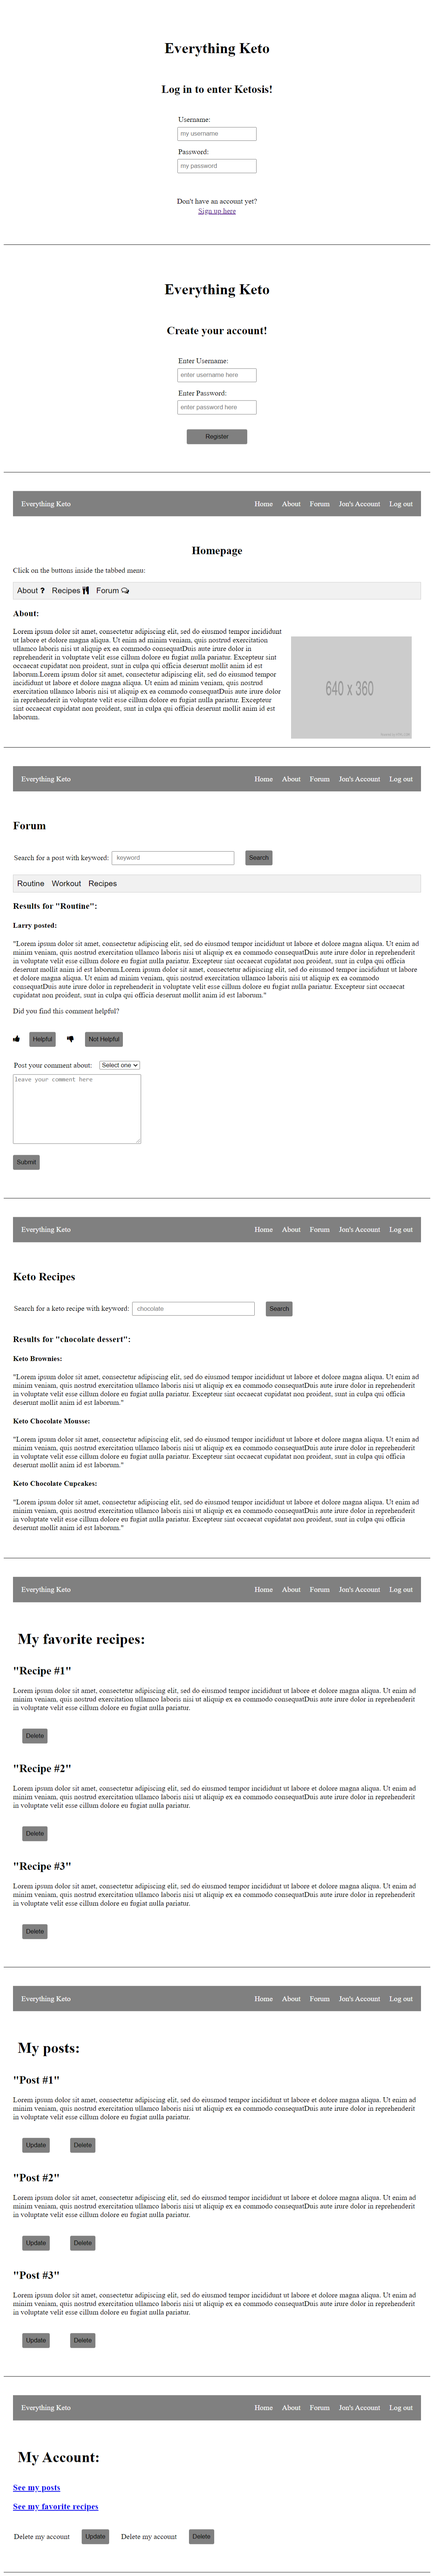
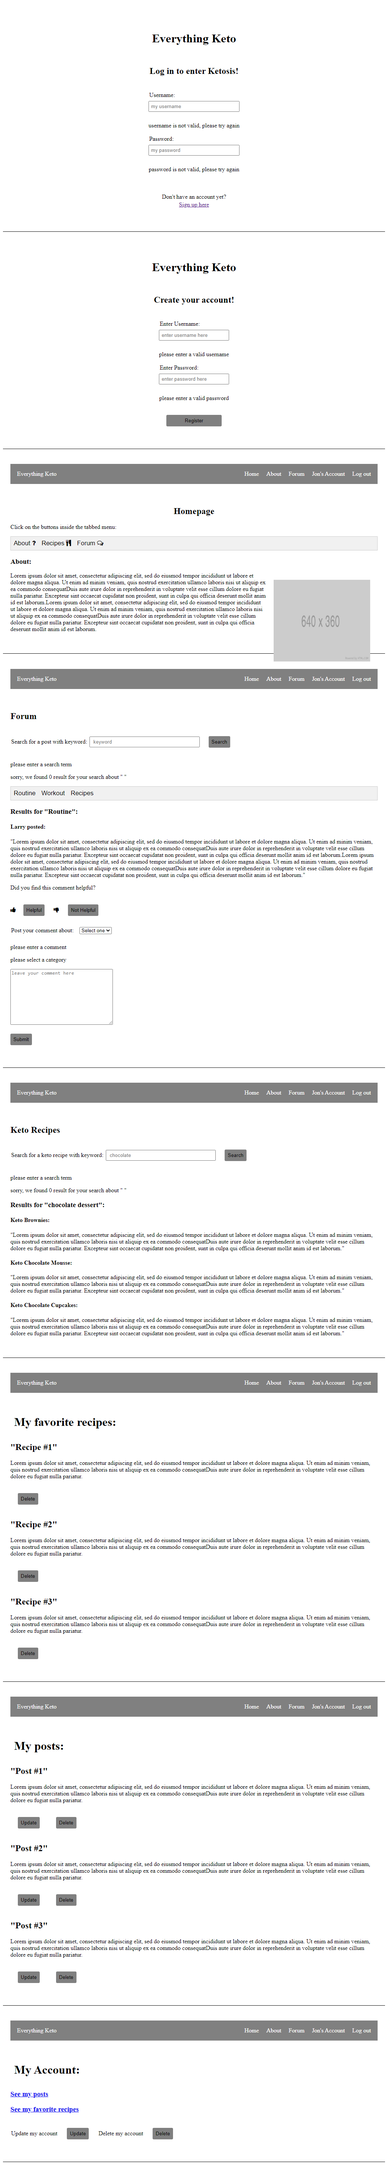
added error messsages to components added content of components updated fireshot graybox-wireframe  in README file

Changed region(s): [[0.0306, 0.0, 0.9799, 0.9991], [0.3981, 0.9679, 0.49, 0.9991]]

diff --git a/src/Forum.js b/src/Forum.js
@@ -1,10 +1,50 @@
-import React, {Component} from  'react'
+import React, { Component } from 'react'
 
 
 class Forum extends Component {
     render() {
         return (
-            <div></div>
+            <section className="forum">
+                <h2 className="forum">Forum</h2>
+                <label for="search-term">Search for a post with keyword:</label>
+                <input type="input" name="search" id="search-term" value="" placeholder=" keyword" />
+                <button type="submit" id="submit-keyword">Search</button>
+                <p className="error-message">error: please enter a search term</p>
+                <p className="error-message">error: sorry, we found 0 result for your search about " "</p>
+
+                <div className="tab">
+                    <button className="tablinks" onclick="openCity(event, 'London')">Routine </button>
+                    <button className="tablinks" onclick="openCity(event, 'Paris')">Workout </button>
+                    <button className="tablinks" onclick="openCity(event, 'Tokyo')">Recipes </button>
+                </div>
+
+                <h3>Results for "Routine":</h3>
+                <h4>Larry posted:</h4>
+                <p className="lorem">"Lorem ipsum dolor sit amet, consectetur adipiscing elit, sed do eiusmod tempor incididunt ut labore et dolore magna aliqua. Ut enim ad minim veniam, quis nostrud exercitation ullamco laboris nisi ut aliquip ex ea commodo consequatDuis aute irure dolor in reprehenderit in voluptate velit esse cillum dolore eu fugiat nulla pariatur. Excepteur sint occaecat cupidatat non proident, sunt in culpa qui officia deserunt mollit anim id est laborum.Lorem ipsum dolor sit amet, consectetur adipiscing elit, sed do eiusmod tempor incididunt ut labore et dolore magna aliqua. Ut enim ad minim veniam, quis nostrud exercitation ullamco laboris nisi ut aliquip ex ea commodo consequatDuis aute irure dolor in reprehenderit in voluptate velit esse cillum dolore eu fugiat nulla pariatur. Excepteur sint occaecat cupidatat non proident, sunt in culpa qui officia deserunt mollit anim id est laborum."</p>
+                <p> Did you find this comment helpful? </p>
+                <i className="fa fa-thumbs-up" aria-hidden="true"></i><button type="submit" id="update-button">Helpful</button>
+                <i className="fa fa-thumbs-down" aria-hidden="true"></i> <button type="submit" id="update-button">Not Helpful</button>
+
+                <div>
+                    <label for="post-comment">Post your comment about:</label>
+                    <select name="cars" id="cars">
+                        <option value="">Select one</option>
+                        <option value="">Routine</option>
+                        <option value="">Workout</option>
+                        <option value="">Recipes</option>
+                    </select>
+                </div>
+                <p className="error-message">error: please enter a comment</p>
+                <p className="error-message">error: please select a category</p>
+
+
+                <div className="comment-area">
+                    <textarea id="post-comment" value="" placeholder="leave your comment here"></textarea>
+                    <br />
+                    <button type="submit" id="comment-submit-button">Submit</button>
+                </div>
+            </section>
+
         )
     }
 

diff --git a/src/MyPosts.js b/src/MyPosts.js
@@ -4,7 +4,39 @@ import React, {Component} from  'react'
 class MyPosts extends Component {
     render() {
         return (
-            <div></div>
+            <section className="favorites">
+            <nav>
+              <ul>
+            <li className="logo"><a href="#home">Everything Keto</a></li>
+            <li><a href="#home">Home</a></li>
+            <li><a href="#about">About</a></li>
+            <li><a href="#forum">Forum</a></li>
+            <li><a href="#account">Jon's Account</a></li>
+            <li className="log-out"><a href="#log out">Log out</a></li>
+          </ul>
+            </nav>
+          
+          <h1 className="">My posts:</h1>
+          
+          
+              <h2>"Post #1"</h2>
+              <p>Lorem ipsum dolor sit amet, consectetur adipiscing elit, sed do eiusmod tempor incididunt ut labore et dolore magna aliqua. Ut enim ad minim veniam, quis nostrud exercitation ullamco laboris nisi ut aliquip ex ea commodo consequatDuis aute irure dolor in reprehenderit in voluptate velit esse cillum dolore eu fugiat nulla pariatur.</p>
+              <button type="submit" id="update-button">Update</button>
+              <button type="submit" id="delete-button">Delete</button>
+          
+            
+              <h2>"Post #2"</h2>
+              <p>Lorem ipsum dolor sit amet, consectetur adipiscing elit, sed do eiusmod tempor incididunt ut labore et dolore magna aliqua. Ut enim ad minim veniam, quis nostrud exercitation ullamco laboris nisi ut aliquip ex ea commodo consequatDuis aute irure dolor in reprehenderit in voluptate velit esse cillum dolore eu fugiat nulla pariatur.</p>
+              <button type="submit" id="update-button">Update</button>
+              <button type="submit" id="delete-button">Delete</button>
+          
+          
+              <h2>"Post #3"</h2>
+              <p>Lorem ipsum dolor sit amet, consectetur adipiscing elit, sed do eiusmod tempor incididunt ut labore et dolore magna aliqua. Ut enim ad minim veniam, quis nostrud exercitation ullamco laboris nisi ut aliquip ex ea commodo consequatDuis aute irure dolor in reprehenderit in voluptate velit esse cillum dolore eu fugiat nulla pariatur.</p>
+              <button type="submit" id="update-button">Update</button>
+              <button type="submit" id="delete-button">Delete</button>
+          </section>
+          
         )
     }
 

diff --git a/src/Recipes.js b/src/Recipes.js
@@ -3,8 +3,25 @@ import React from 'react';
 
 function Recipes() {
   return (
-    <main className="Recipes">
-    </main>
+    <section className="recipes">  
+  <h2 className="forum">Keto Recipes</h2>
+        <label for="search-term">Search for a keto recipe with keyword:</label>
+        <input type="input" name="search" id="search-term" value="" placeholder=" chocolate" />
+        <button type="submit" id="submit-keyword">Search</button>
+        <p className="error-message">error: please enter a search term</p>
+        <p className="error-message">error: sorry, we found 0 result for your search about " "</p>
+
+  <h3>Results for "chocolate dessert":</h3>
+  <h4>Keto Brownies:</h4>  
+    <p className="lorem">"Lorem ipsum dolor sit amet, consectetur adipiscing elit, sed do eiusmod tempor incididunt ut labore et dolore magna aliqua. Ut enim ad minim veniam, quis nostrud exercitation ullamco laboris nisi ut aliquip ex ea commodo consequatDuis aute irure dolor in reprehenderit in voluptate velit esse cillum dolore eu fugiat nulla pariatur. Excepteur sint occaecat cupidatat non proident, sunt in culpa qui officia deserunt mollit anim id est laborum."</p>
+  
+  <h4>Keto Chocolate Mousse:</h4>  
+    <p className="lorem">"Lorem ipsum dolor sit amet, consectetur adipiscing elit, sed do eiusmod tempor incididunt ut labore et dolore magna aliqua. Ut enim ad minim veniam, quis nostrud exercitation ullamco laboris nisi ut aliquip ex ea commodo consequatDuis aute irure dolor in reprehenderit in voluptate velit esse cillum dolore eu fugiat nulla pariatur. Excepteur sint occaecat cupidatat non proident, sunt in culpa qui officia deserunt mollit anim id est laborum."</p>
+  
+  <h4>Keto Chocolate Cupcakes:</h4>  
+    <p className="lorem">"Lorem ipsum dolor sit amet, consectetur adipiscing elit, sed do eiusmod tempor incididunt ut labore et dolore magna aliqua. Ut enim ad minim veniam, quis nostrud exercitation ullamco laboris nisi ut aliquip ex ea commodo consequatDuis aute irure dolor in reprehenderit in voluptate velit esse cillum dolore eu fugiat nulla pariatur. Excepteur sint occaecat cupidatat non proident, sunt in culpa qui officia deserunt mollit anim id est laborum."</p>
+  </section>
+  
   );
 }
 

diff --git a/src/MyRecipes.js b/src/MyRecipes.js
@@ -4,7 +4,24 @@ import React, {Component} from  'react'
 class MyRecipes extends Component {
     render() {
         return (
-            <div></div>
+            <section className="favorites">
+
+<h1 className="">My favorite recipes:</h1>
+<h2>"Recipe #1"</h2>
+    <p>Lorem ipsum dolor sit amet, consectetur adipiscing elit, sed do eiusmod tempor incididunt ut labore et dolore magna aliqua. Ut enim ad minim veniam, quis nostrud exercitation ullamco laboris nisi ut aliquip ex ea commodo consequatDuis aute irure dolor in reprehenderit in voluptate velit esse cillum dolore eu fugiat nulla pariatur.</p>
+      <button type="submit" id="delete-button">Delete</button>
+
+  
+    <h2>"Recipe #2"</h2>
+    <p>Lorem ipsum dolor sit amet, consectetur adipiscing elit, sed do eiusmod tempor incididunt ut labore et dolore magna aliqua. Ut enim ad minim veniam, quis nostrud exercitation ullamco laboris nisi ut aliquip ex ea commodo consequatDuis aute irure dolor in reprehenderit in voluptate velit esse cillum dolore eu fugiat nulla pariatur.</p>
+      <button type="submit" id="delete-button">Delete</button>
+
+
+    <h2>"Recipe #3"</h2>
+    <p>Lorem ipsum dolor sit amet, consectetur adipiscing elit, sed do eiusmod tempor incididunt ut labore et dolore magna aliqua. Ut enim ad minim veniam, quis nostrud exercitation ullamco laboris nisi ut aliquip ex ea commodo consequatDuis aute irure dolor in reprehenderit in voluptate velit esse cillum dolore eu fugiat nulla pariatur.</p>
+      <button type="submit" id="delete-button">Delete</button>
+</section>
+
         )
     }
 

diff --git a/src/Account.js b/src/Account.js
@@ -1,4 +1,4 @@
-import React, {Component} from  'react'
+import React, { Component } from 'react'
 import MyPosts from './MyPosts'
 import MyRecipes from './MyRecipes'
 
@@ -8,10 +8,31 @@ import MyRecipes from './MyRecipes'
 class Account extends Component {
     render() {
         return (
-            <div>
+            <section className="my-account">
+                <nav>
+                    <ul>
+                        <li className="logo"><a href="#home">Everything Keto</a></li>
+                        <li><a href="#home">Home</a></li>
+                        <li><a href="#about">About</a></li>
+                        <li><a href="#forum">Forum</a></li>
+                        <li><a href="#account">Jon's Account</a></li>
+                        <li className="log-out"><a href="#log out">Log out</a></li>
+                    </ul>
+                </nav>
+
+                <h1 className="">My Account:</h1>
+                <h3><a href="#my-posts">See my posts</a></h3>
+                <h3><a href="#favorites">See my favorite recipes</a></h3>
+
+                <label>Update my account</label>
+                <button type="submit" id="update-button">Update</button>
+                <label>Delete my account</label>
+                <button type="submit" id="delete-button">Delete</button>
+                <p>(links in blue will direct you to one of the pages below "my favorite" or "my posts")</p>
                 <MyPosts />
                 <MyRecipes />
-            </div>
+            </section>
+
         )
     }
 

diff --git a/src/Register.js b/src/Register.js
@@ -3,8 +3,21 @@ import React, { Component } from 'react'
 class Register extends Component {
     render() {
         return (
-            <div>
-            </div>
+            <section class="register-component">
+                <h1 class="title">Everything Keto</h1>
+                <h2 class="subtitle">Create your account!</h2>
+                <div class="form-div">
+                    <form class="register-form">
+                        <label for="enter-username">Enter Username:</label>
+                        <input type="input" name="register" id="enter-username" value="" placeholder="enter username here" required />
+                        <p className="error-message">please enter a valid username</p>      
+                        <label for="enter-password">Enter Password:</label>
+                        <input type="input" name="register" id="enter-password" value="" placeholder="enter password here" required />
+                        <p className="error-message">please enter a valid password</p>      
+                        <button type="submit" id="submit-registration">Register</button>
+                    </form>
+                </div>
+            </section>
         )
     }
 

diff --git a/src/About.js b/src/About.js
@@ -3,8 +3,14 @@ import React from 'react';
 
 function About() {
   return (
-    <main className="About">
-    </main>
+    <section className="About">
+        <h3>About:</h3>  
+  
+  <img src="http://via.placeholder.com/640x360" alt="placeholder" />
+
+  <p className="lorem">Lorem ipsum dolor sit amet, consectetur adipiscing elit, sed do eiusmod tempor incididunt ut labore et dolore magna aliqua. Ut enim ad minim veniam, quis nostrud exercitation ullamco laboris nisi ut aliquip ex ea commodo consequatDuis aute irure dolor in reprehenderit in voluptate velit esse cillum dolore eu fugiat nulla pariatur. Excepteur sint occaecat cupidatat non proident, sunt in culpa qui officia deserunt mollit anim id est laborum.Lorem ipsum dolor sit amet, consectetur adipiscing elit, sed do eiusmod tempor incididunt ut labore et dolore magna aliqua. Ut enim ad minim veniam, quis nostrud exercitation ullamco laboris nisi ut aliquip ex ea commodo consequatDuis aute irure dolor in reprehenderit in voluptate velit esse cillum dolore eu fugiat nulla pariatur. Excepteur sint occaecat cupidatat non proident, sunt in culpa qui officia deserunt mollit anim id est laborum.</p>
+
+    </section>
   );
 }
 

diff --git a/src/HomePage.js b/src/HomePage.js
@@ -7,11 +7,22 @@ import Forum from './Forum'
 class HomePage extends Component {
     render() {
         return (
-            <div>
+            <section className="homepage">
+
+                <h2 className="homepage-h2">Homepage</h2>
+                <p>Click on the buttons inside the tabbed menu:</p>
+
+                <div className="tab">
+                    <button className="tablinks" onclick="openCity(event, 'London')">About <i className="fa fa-question" aria-hidden="true"></i></button>
+                    <button className="tablinks" onclick="openCity(event, 'Paris')">Recipes <i className="fa fa-cutlery" aria-hidden="true"></i></button>
+                    <button className="tablinks" onclick="openCity(event, 'Tokyo')">Forum <i className="fa fa-comments-o" aria-hidden="true"></i></button>
+                </div>
+                <p>(As you select a tab, one of the page below will appear: about recipes or forum)</p>
+
                 <About />
                 <Recipes />
                 <Forum />
-            </div>
+            </section>
         )
     }
 

diff --git a/src/Navbar.js b/src/Navbar.js
@@ -2,9 +2,18 @@ import React from 'react';
 
 function Navbar() {
   return (
-    <main className="Navbar">
-     <nav></nav>
-    </main>
+    <div className="Navbar">
+      <nav>
+    <ul>
+  <li className="logo"><a href="#home">Everything Keto</a></li>
+  <li><a href="#home">Home</a></li>
+  <li><a href="#about">About</a></li>
+  <li><a href="#forum">Forum</a></li>
+  <li><a href="#account">Jon's Account</a></li>
+  <li className="log-out"><a href="#log out">Log out</a></li>
+</ul>
+  </nav>
+    </div>
   );
 }
 

diff --git a/src/Login.js b/src/Login.js
@@ -19,7 +19,7 @@ class Login extends Component {
                 </div>
                 <div className="footer">
                     <p>Don't have an account yet?</p>
-                    <a href="" className="register-link">
+                    <a href="#register-component" className="register-link">
                         <span>Sign up here</span>
                     </a>
                 </div>
